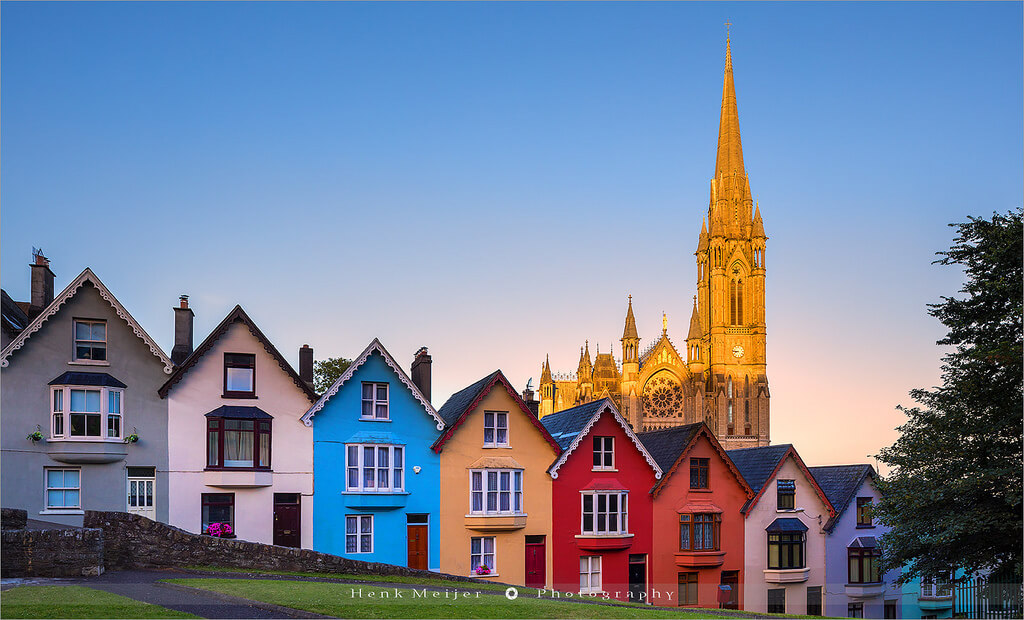
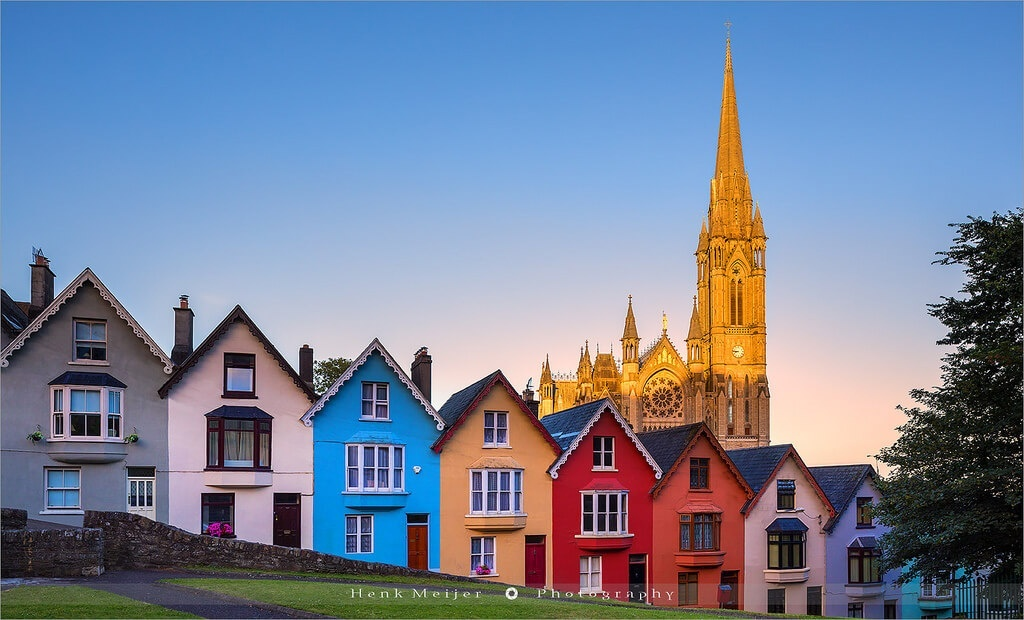
Add example images to readme

diff --git a/b_openmp_kmeans.cpp b/b_openmp_kmeans.cpp
@@ -1,5 +1,6 @@
 #include <array>
 #include <cmath>
+#include <filesystem>
 #include <iostream>
 #include <limits>
 #include <opencv2/core/mat.hpp>
@@ -293,9 +294,20 @@ int main(int argc, char** argv) {
     
 
     int key = waitKey(0);
+    
+
     if (key == 's')
     {
-        imwrite(argv[1], img);
+        filesystem::path input_path(argv[1]);
+        filesystem::path output_path = input_path.parent_path() / ("after_" + input_path.filename().string());
+        cout << output_path << endl;
+        if (imwrite(output_path.string(), new_img)) {
+            cout << "Successfully saved image" << endl;
+        } else {
+            cout << "!! Failed to save image" << endl;
+
+        }
+        
     }
     return 0;
 }

diff --git a/a_kmeans.cpp b/a_kmeans.cpp
@@ -225,10 +225,12 @@ int main(int argc, char** argv) {
     
 
     int key = waitKey(0);
+    string output_path = "after_" + string(argv[1]);
+
     if (key == 's')
     {
-        imwrite(argv[1], img);
+        imwrite(output_path, img);
+        cout << "Successfully saved image" << endl;
     }
-    return 0;
 }
 

diff --git a/README.md b/README.md
@@ -24,13 +24,38 @@ And update `option(USE_OPENMP "Build with OpenMP" [ON/OFF])` in CMakeLists.txt
 
 
 ### Benchmarks after parallelization
-After parallelizing with OpenMP, the running time (benchmarked with chrono time library) had an average speedup of 4.45x:
+After parallelizing with OpenMP, the running time (benchmarked with chrono time library):
 
-* Running parallelized `openmp_kmeans.cpp` on `image.jpeg` 5 times (in ms) = 260, 272, 258, 241, 248 = average 255.8 ms
+`image1.jpg` 306364 total pixels --> speedup of 4.45x
+* Running parallelized `b_openmp_kmeans.cpp` on `image.jpeg` 5 times (in ms) = 260, 272, 258, 241, 248 = average 255.8 ms
+* Running normal `b_openmp_kmeans.cpp` on `image.jpeg` 5 times (in ms) = 1139, 1098, 1210, 1147, 1092 = average 1137.2 ms
 
-* Running normal `openmp_kmeans.cpp` on `image.jpeg` 5 times (in ms) = 1139, 1098, 1210, 1147, 1092 = average 1137.2 ms
+
+`image2.jpg` 634880 total pixels --> speedup of 4.66x
+* Running parallelized `b_openmp_kmeans.cpp` on `image2.jpg` 5 times (in ms) = 528, 524, 491, 509, 493 = average 509.0 ms
+* Running normal `b_openmp_kmeans.cpp` on `image.jpg` 5 times (in ms) = 2307, 2376, 2383, 2614, 2192 = average 2374.4 ms
 
 
+
+### Example images:
+#### `image.jpeg`
+Before:
+
+![alt text](image.jpeg)
+
+After:
+
+![alt text](after_image.jpeg)
+
+#### `image2.jpg`
+
+Before:
+
+![alt text](image2.jpg)
+
+After:
+
+![alt text](after_image2.jpg)
 
 ### References + Credits
 https://stackoverflow.com/questions/49710006/fast-color-quantization-in-opencv
